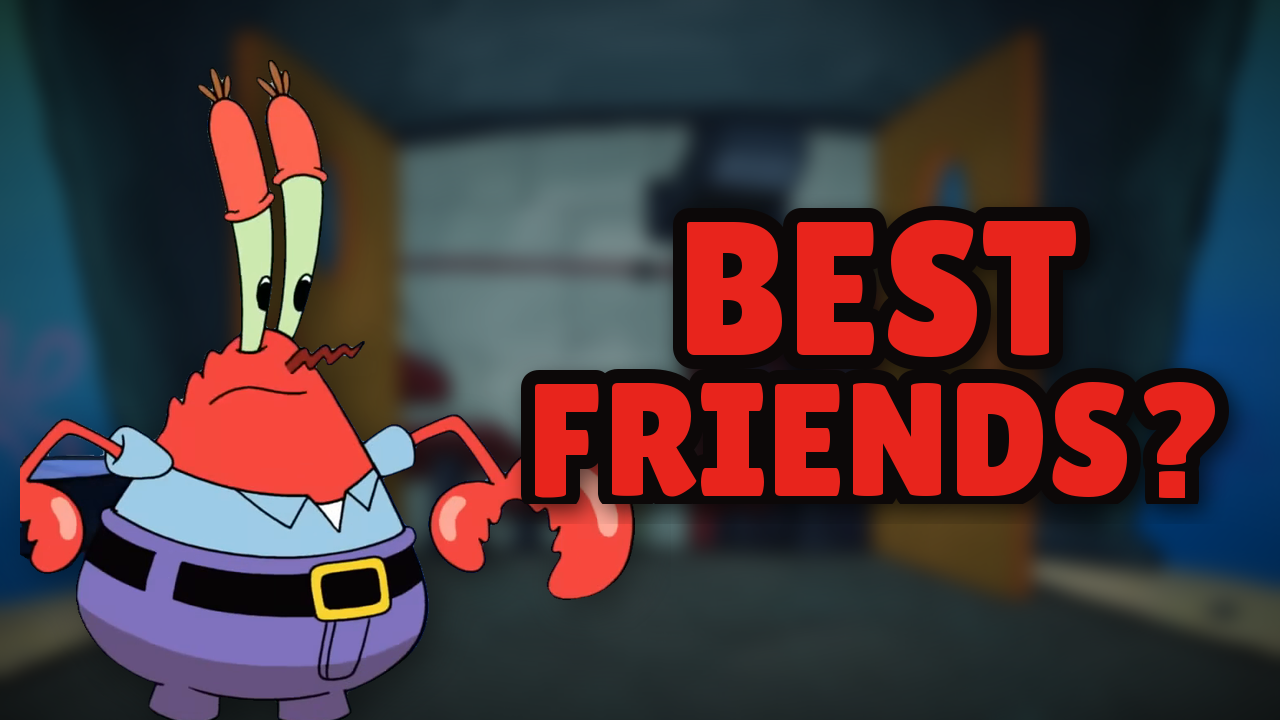
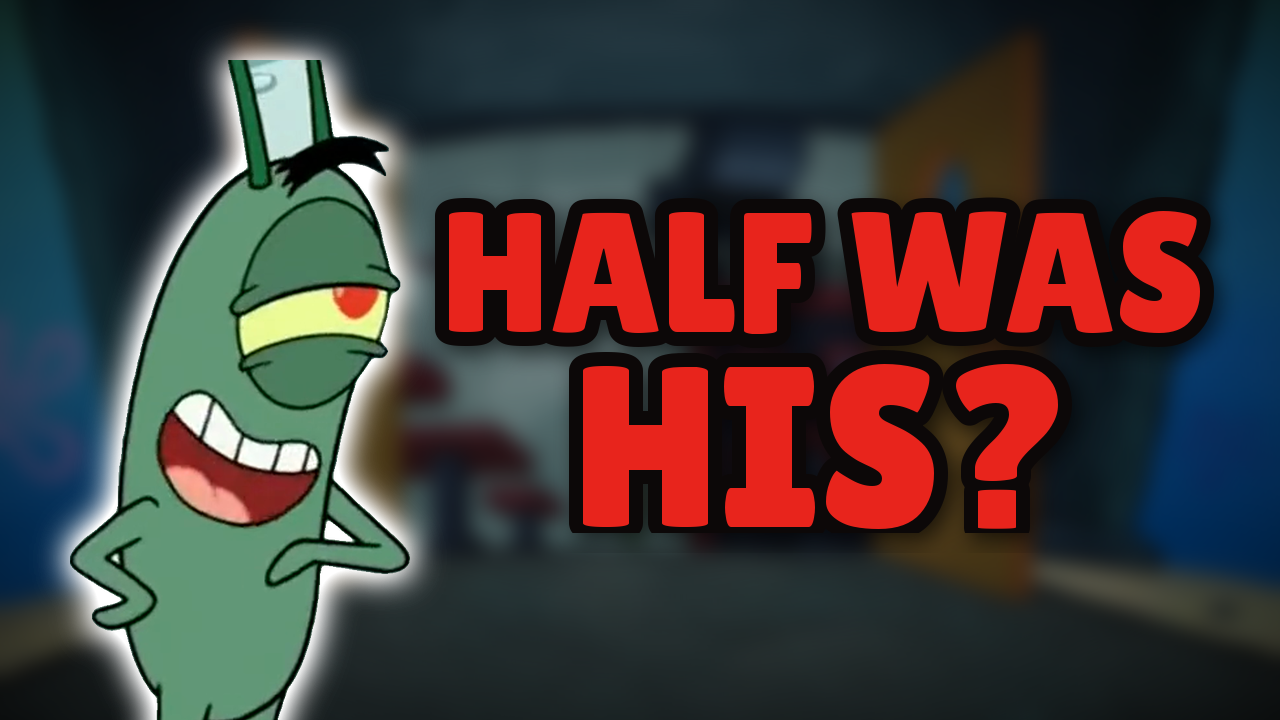
Single thumbnail in the reference style
Claude-Session: https://claude.ai/code/session_019dHvfzMfbcC1GNSMjvXBdo

diff --git a/plankton-vs-krabs/tools/thumbnail2.py b/plankton-vs-krabs/tools/thumbnail2.py
@@ -99,7 +99,34 @@ def variant_b():
     return c.convert("RGB")
 
 
+def final():
+    """one thumbnail: Plankton cutout with white edge glow, blurred dark episode background, red outlined text"""
+    bg = Image.open(os.path.join(ROOT, "thumb", "bg.png")).convert("RGB")
+    bg = ImageOps.fit(bg, (TW, TH), Image.LANCZOS).filter(ImageFilter.GaussianBlur(10))
+    a = np.asarray(bg).astype(np.float32) * 0.55
+    x = np.linspace(-1, 1, TW)[None, :, None]; y = np.linspace(-1, 1, TH)[:, None, None]
+    a *= 1 - 0.4 * np.clip(x ** 2 + y ** 2 - .2, 0, None)
+    c = Image.fromarray(np.clip(a, 0, 255).astype(np.uint8)).convert("RGBA")
+    pl = fit_h(trim(Image.open(os.path.join(ROOT, "thumb", "plankton_cut.png")).convert("RGBA")), 700)
+    g, pad = glow(pl, radius=16, strength=1.6)
+    c.alpha_composite(g, (70 - pad, TH - pl.height + 40 - pad))
+    t = text_block([("HALF WAS", 170), ("HIS?", 230)], os.path.join(F, "LilitaOne-Regular.ttf"),
+                   (232, 36, 28), 14, (12, 8, 8), line_gap=-0.1)
+    ts, tp = drop_shadow(t, 10, 200, (6, 8))
+    c.alpha_composite(ts, (TW - t.width - 50 - tp, (TH - t.height) // 2 - tp))
+    return c.convert("RGB")
+
+
 if __name__ == "__main__":
+    os.makedirs(os.path.join(ROOT, "output"), exist_ok=True)
+    T = final(); T.save(os.path.join(ROOT, "output", "thumbnail.png"))
+    chk = Image.new("RGB", (290, 180), (255, 255, 255)); chk.paste(T.resize((246, 138), Image.LANCZOS), (22, 21))
+    chk.save(os.path.join(ROOT, "output", "thumbnail_mobile_check.png"))
+    print("wrote output/thumbnail.png")
+    raise SystemExit
+
+
+if False:
     os.makedirs(os.path.join(ROOT, "output"), exist_ok=True)
     A, B = variant_a(), variant_b()
     A.save(os.path.join(ROOT, "output", "thumbnail_A.png")); B.save(os.path.join(ROOT, "output", "thumbnail_B.png"))

diff --git a/plankton-vs-krabs/tools/description.py b/plankton-vs-krabs/tools/description.py
@@ -44,7 +44,7 @@ def main():
     open(os.path.join(ROOT, "output", "description.txt"), "w").write(text)
     md = ["# YouTube upload copy", "",
           "## Title (pick one; channel format: a curiosity statement, occasional CAPS word or trailing `..`)",
-          "1. **Plankton Helped Make the Krabby Patty..** (recommended; pairs with thumbnail A or B)",
+          "1. **Plankton Helped Make the Krabby Patty..** (recommended; pairs with the thumbnail)",
           "2. SpongeBob's MOST Toxic Friendship (mirrors your best performer, \"Spongebob's MOST Tragic Character\")",
           "3. Mr. Krabs Is Hiding Something About Plankton..", "",
           "## Description (paste as-is; chapter times come from the last render)", "", "```", text.rstrip(), "```", ""]

diff --git a/plankton-vs-krabs/05_DESCRIPTION.md b/plankton-vs-krabs/05_DESCRIPTION.md
@@ -1,7 +1,7 @@
 # YouTube upload copy
 
 ## Title (pick one; channel format: a curiosity statement, occasional CAPS word or trailing `..`)
-1. **Plankton Helped Make the Krabby Patty..** (recommended; pairs with thumbnail A or B)
+1. **Plankton Helped Make the Krabby Patty..** (recommended; pairs with the thumbnail)
 2. SpongeBob's MOST Toxic Friendship (mirrors your best performer, "Spongebob's MOST Tragic Character")
 3. Mr. Krabs Is Hiding Something About Plankton..
 
